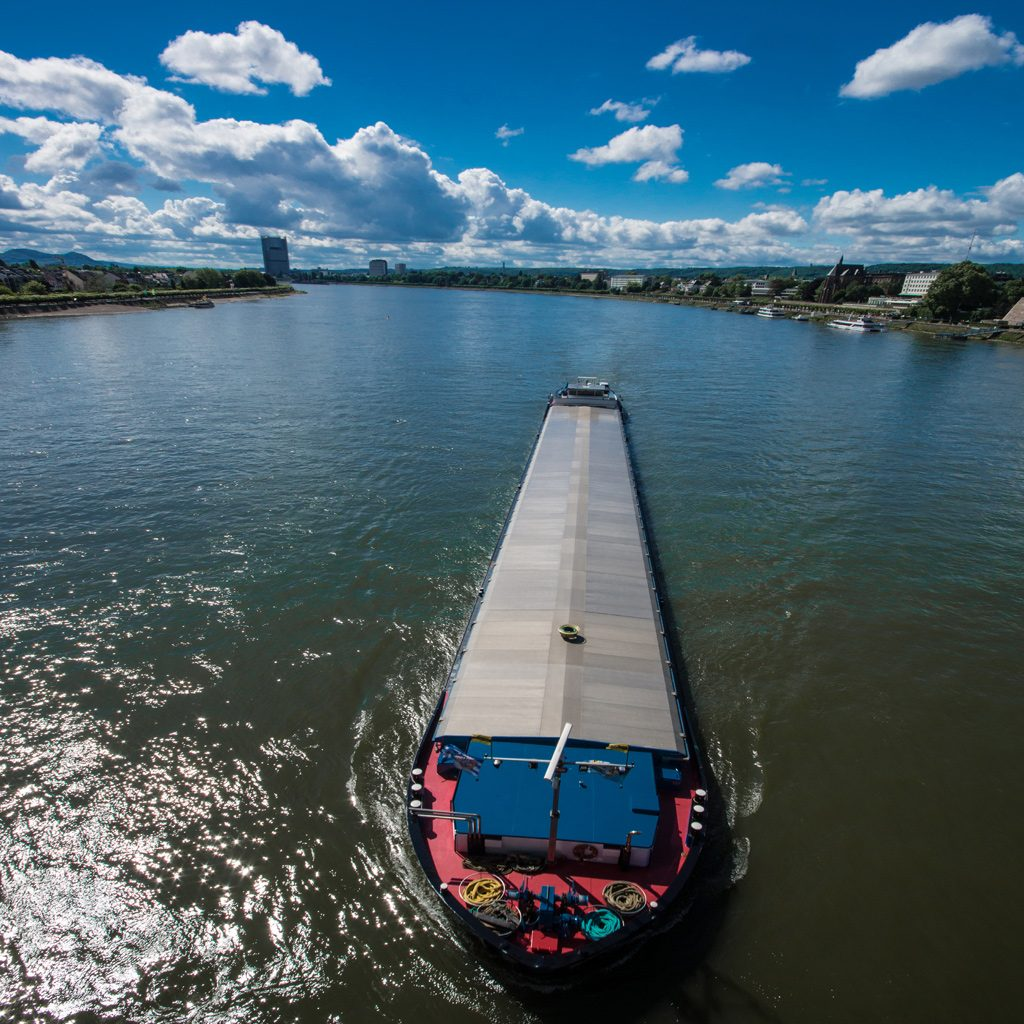
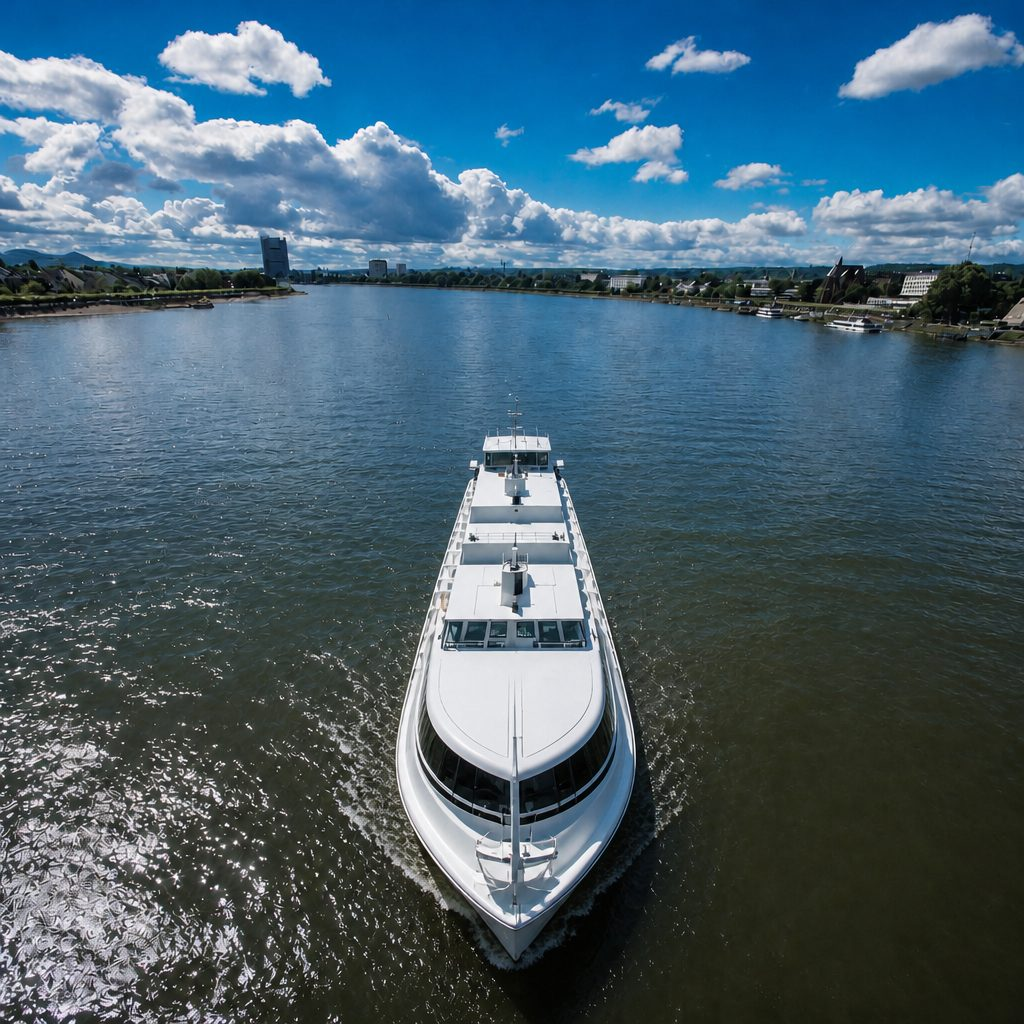
Section 6.29: Home becomes the door through which you enter the catalog

diff --git a/src/app/pages/home/home.page.ts b/src/app/pages/home/home.page.ts
@@ -1,12 +1,30 @@
-import { Component } from '@angular/core';
+import { Component, inject, signal } from '@angular/core';
+import { Router, RouterLink } from '@angular/router';
 import { IonHeader, IonToolbar, IonTitle, IonContent,
-         IonButtons, IonMenuButton }
+         IonButtons, IonMenuButton, IonButton, IonRadio,
+         IonRadioGroup }
         from '@ionic/angular';
+import { TourService }
+        from '../../services/tour.service';
 
 @Component({
   selector: 'app-home',
   templateUrl: './home.page.html',
-  imports: [IonHeader, IonToolbar, IonTitle, IonContent,
-            IonButtons, IonMenuButton],
+  styleUrl: './home.page.scss',
+  imports: [RouterLink, IonHeader, IonToolbar, IonTitle,
+            IonContent, IonButtons, IonMenuButton,
+            IonButton, IonRadio, IonRadioGroup],
 })
-export class HomePage {}
+export class HomePage {
+  private readonly service = inject(TourService);
+  private readonly router = inject(Router);
+
+  readonly regions = this.service.regions;
+  readonly region = signal('BN');
+
+  showRegion() {
+    this.router.navigate(['/tours'], {
+      queryParams: { region: this.region() },
+    });
+  }
+}

diff --git a/src/app/pages/home/home.page.html b/src/app/pages/home/home.page.html
@@ -7,6 +7,46 @@
   </ion-toolbar>
 </ion-header>
 
-<ion-content class="ion-padding">
-  <p>Home page.</p>
+<ion-content>
+  <img
+    class="hero"
+    src="/api/img/big/bonn-rhein-schiff.jpg"
+    alt="The Rhine at Bonn under a summer sky">
+
+  <div class="ion-padding">
+    <h1>Best of Bonn Tours</h1>
+
+    <p>
+      Discover Bonn, the Rhine and the Seven Mountains
+      with experienced local guides.
+    </p>
+
+    <h2 id="region">Which region would you like to explore?</h2>
+
+    <ion-radio-group
+      aria-labelledby="region"
+      [value]="region()"
+      (ionChange)="region.set($event.detail.value)">
+      @for (region of regions(); track region.id) {
+        <ion-radio
+          [value]="region.id"
+          labelPlacement="end"
+          justify="start">
+          {{ region.name }}
+        </ion-radio>
+      }
+    </ion-radio-group>
+
+    <ion-button
+      class="ion-margin-top"
+      expand="block"
+      (click)="showRegion()">
+      Show tours
+    </ion-button>
+
+    <ion-button expand="block" fill="outline"
+                routerLink="/tours">
+      Browse all tours
+    </ion-button>
+  </div>
 </ion-content>

diff --git a/src/app/pages/home/home.page.scss b/src/app/pages/home/home.page.scss
@@ -1,0 +1,7 @@
+.hero {
+  display: block;
+  width: 100%;
+  height: 160px;
+  object-fit: cover;
+  object-position: center top;
+}
